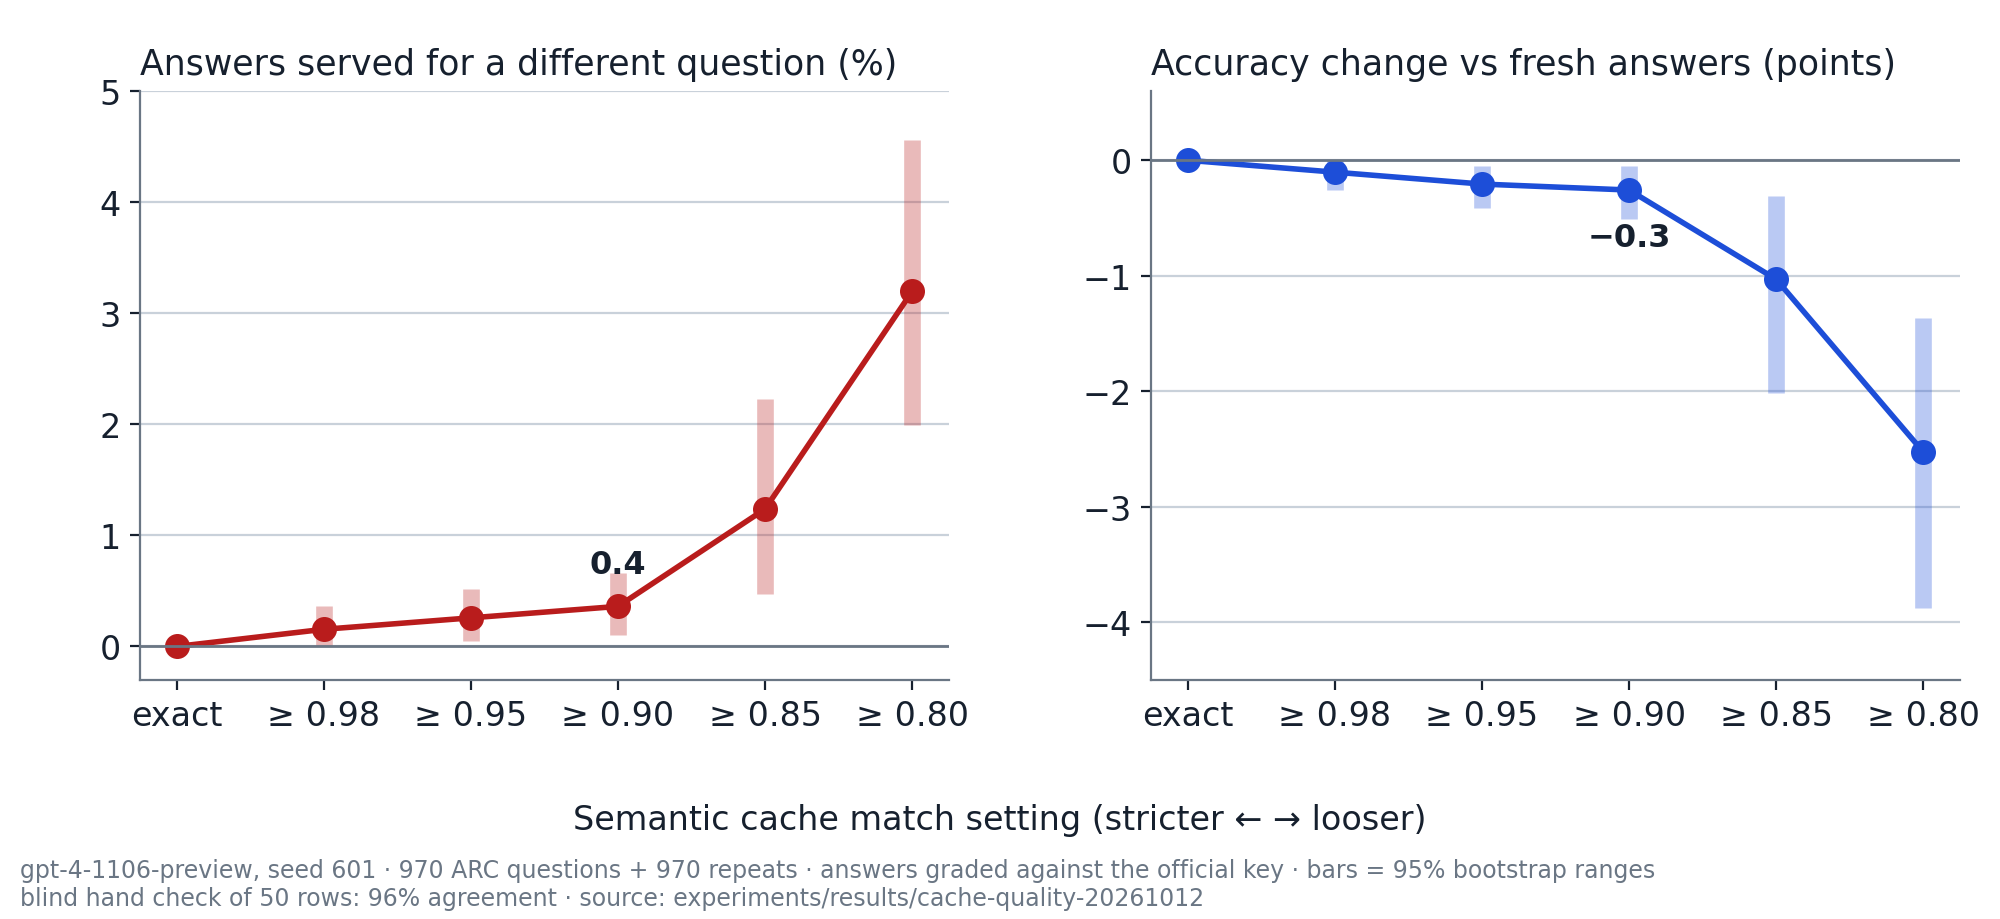
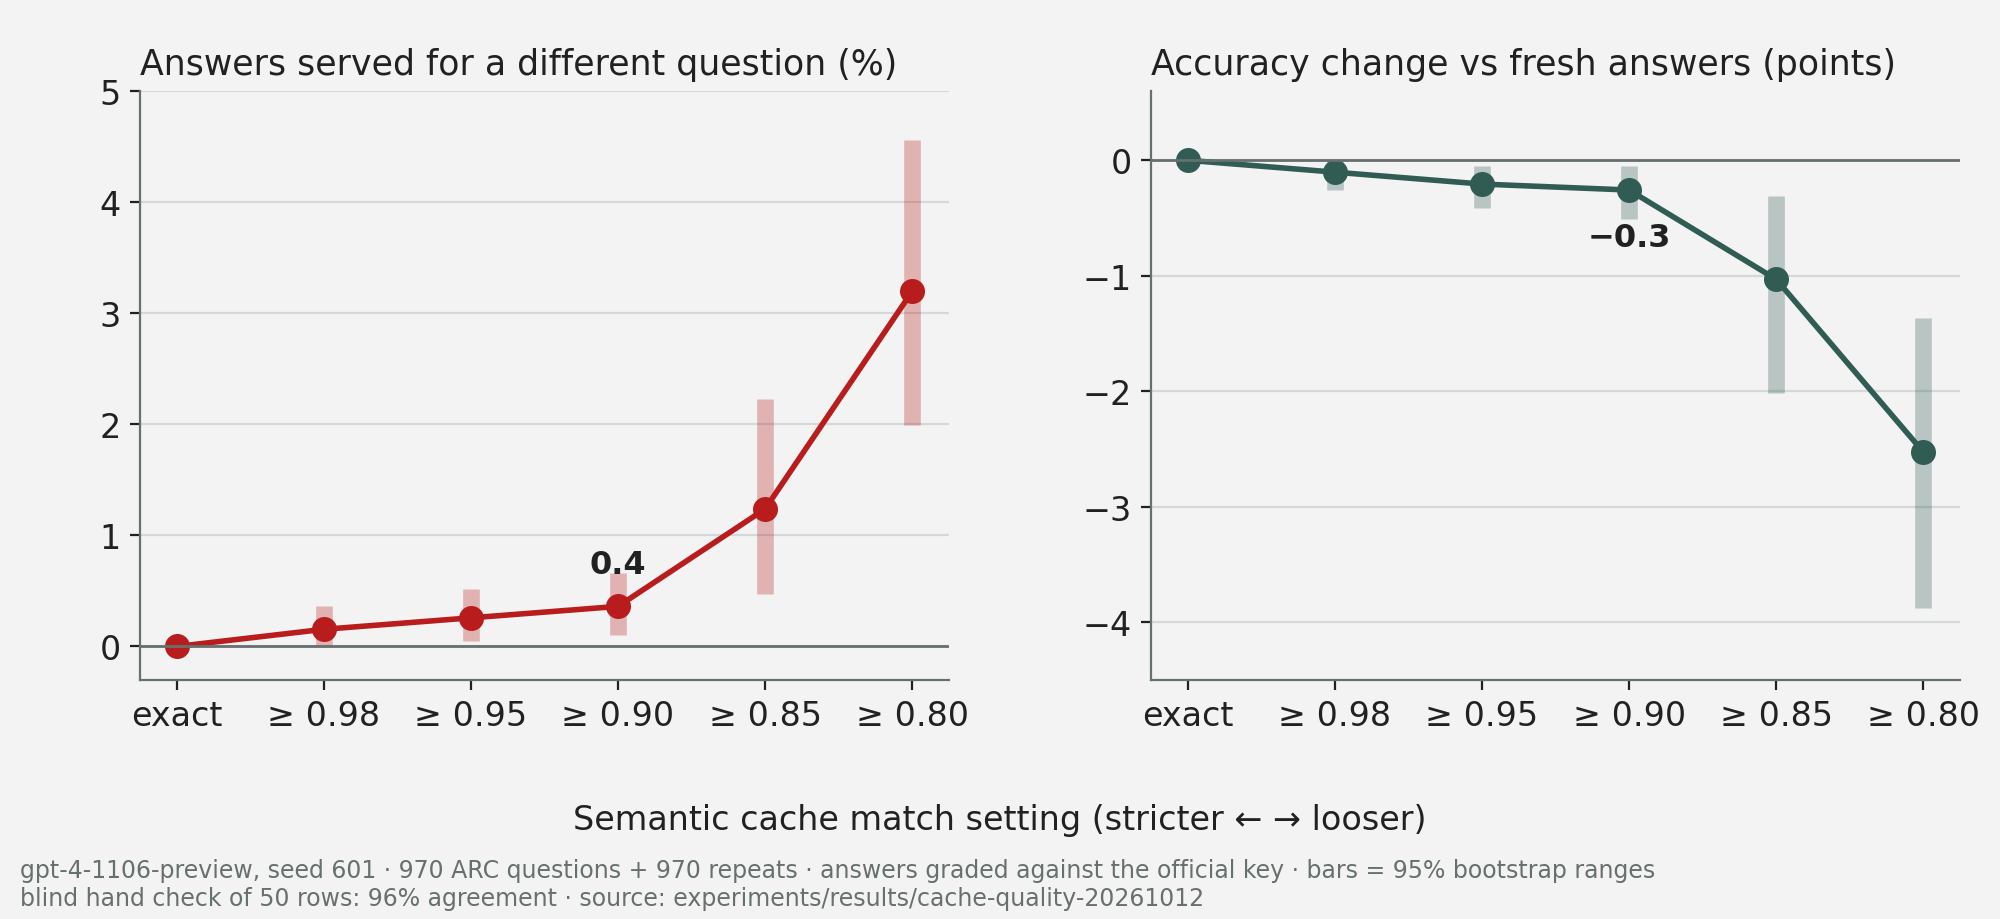
Redraw the Sprint 2 figures in the slide template's colors

Changed region(s): [[0.837, 0.2133, 0.992, 0.6703], [0.651, 0.1828, 0.837, 0.2437], [0.589, 0.1523, 0.651, 0.1828]]

diff --git a/tools/plot_sprint2_figures.py b/tools/plot_sprint2_figures.py
@@ -27,9 +27,11 @@ RETUNE = RESULTS / "lru-retune-20261026/report.json"
 ENERGY = RESULTS / "scc-energy-8291245/report.json"
 OUT = ROOT / "docs/sprints/Sprint_2/figures"
 
-INK, MUTED, GRID = "#16202E", "#6A7684", "#C9D1DA"
-EASY, HARD, REAL_C = "#C2410C", "#1D4ED8", "#16202E"   # same easy/hard colours as the Sprint 1 figures
-PASS, FAIL, BAND = "#4B5563", "#B91C1C", "#E8EDF2"
+# Colours from the Sprint 2 slide template (Slidesgo, teal); red only marks wrong answers and failures
+BG, INK, MUTED, GRID = "#F3F3F3", "#212121", "#66706E", "#D3D9D7"
+EASY, HARD, REAL_C = "#2FAE92", "#305C54", "#212121"
+PASS, FAIL, BAND, FAIL_BAND = "#4C9484", "#B91C1C", "#DDE9E6", "#F2DCDC"
+plt.rcParams.update({"figure.facecolor": BG, "axes.facecolor": BG, "savefig.facecolor": BG})
 
 
 def pts(x):
@@ -147,7 +149,7 @@ def figure_retune(retune, out):
     decisions = [d for d in retune["decisions"] if d["arm"] == "no_shift"]
     sizes = sorted({d["capacity"] for d in decisions})
     fig, ax = plt.subplots(figsize=(10, 4.6), dpi=200)
-    ax.axvspan(-2, -1, color="#F7E3E3", zorder=0)
+    ax.axvspan(-2, -1, color=FAIL_BAND, zorder=0)
     ax.axvline(-1, color=FAIL, lw=1.4, ls="--", zorder=1)
     ax.text(-1.05, 5.75, "fails below −1.0\n(agreed before the run)", ha="right", va="center", fontsize=10.5,
             color=FAIL)
